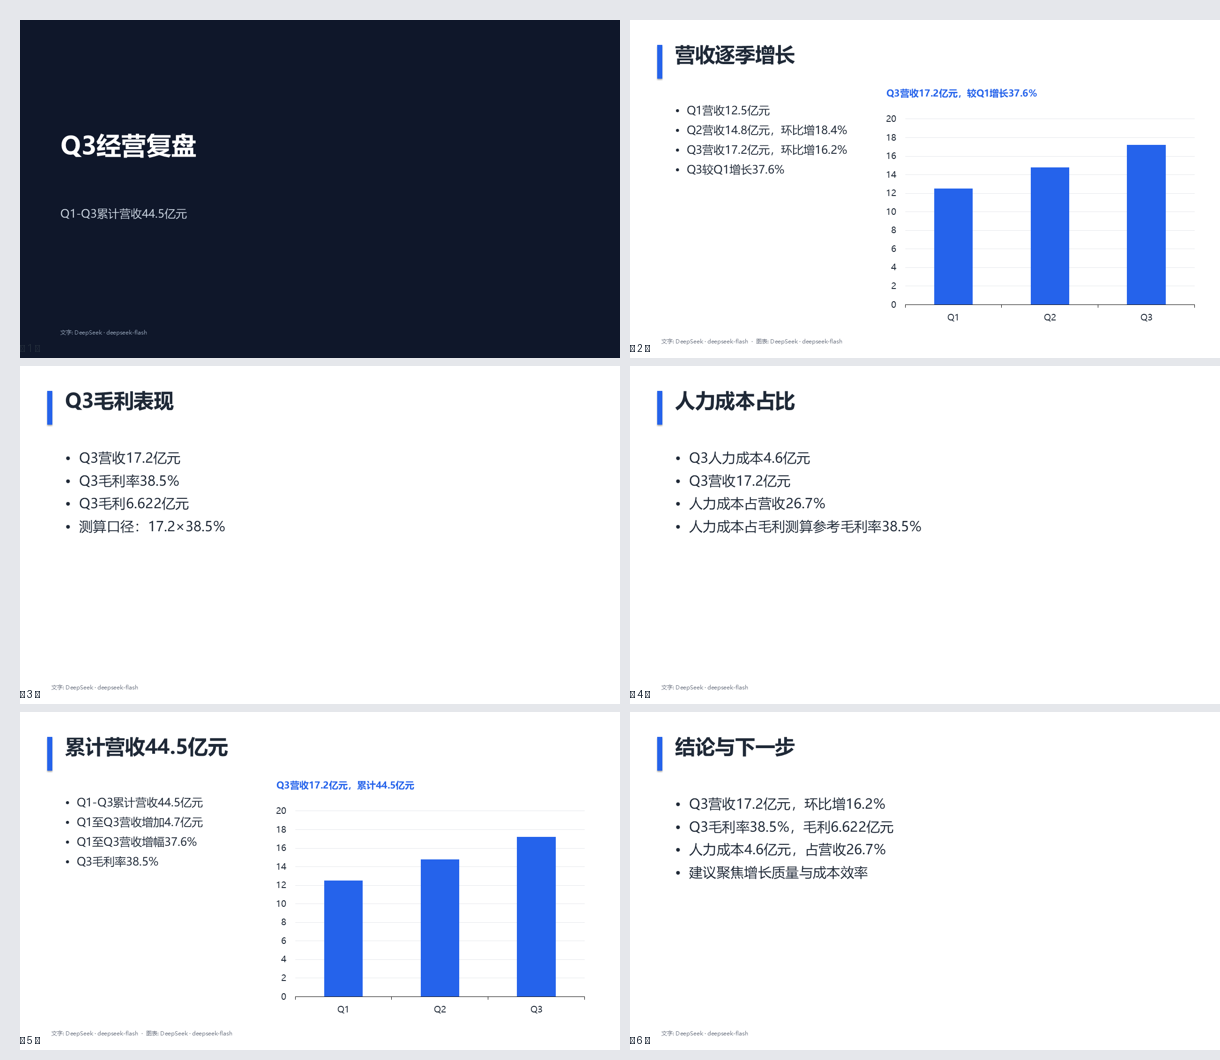
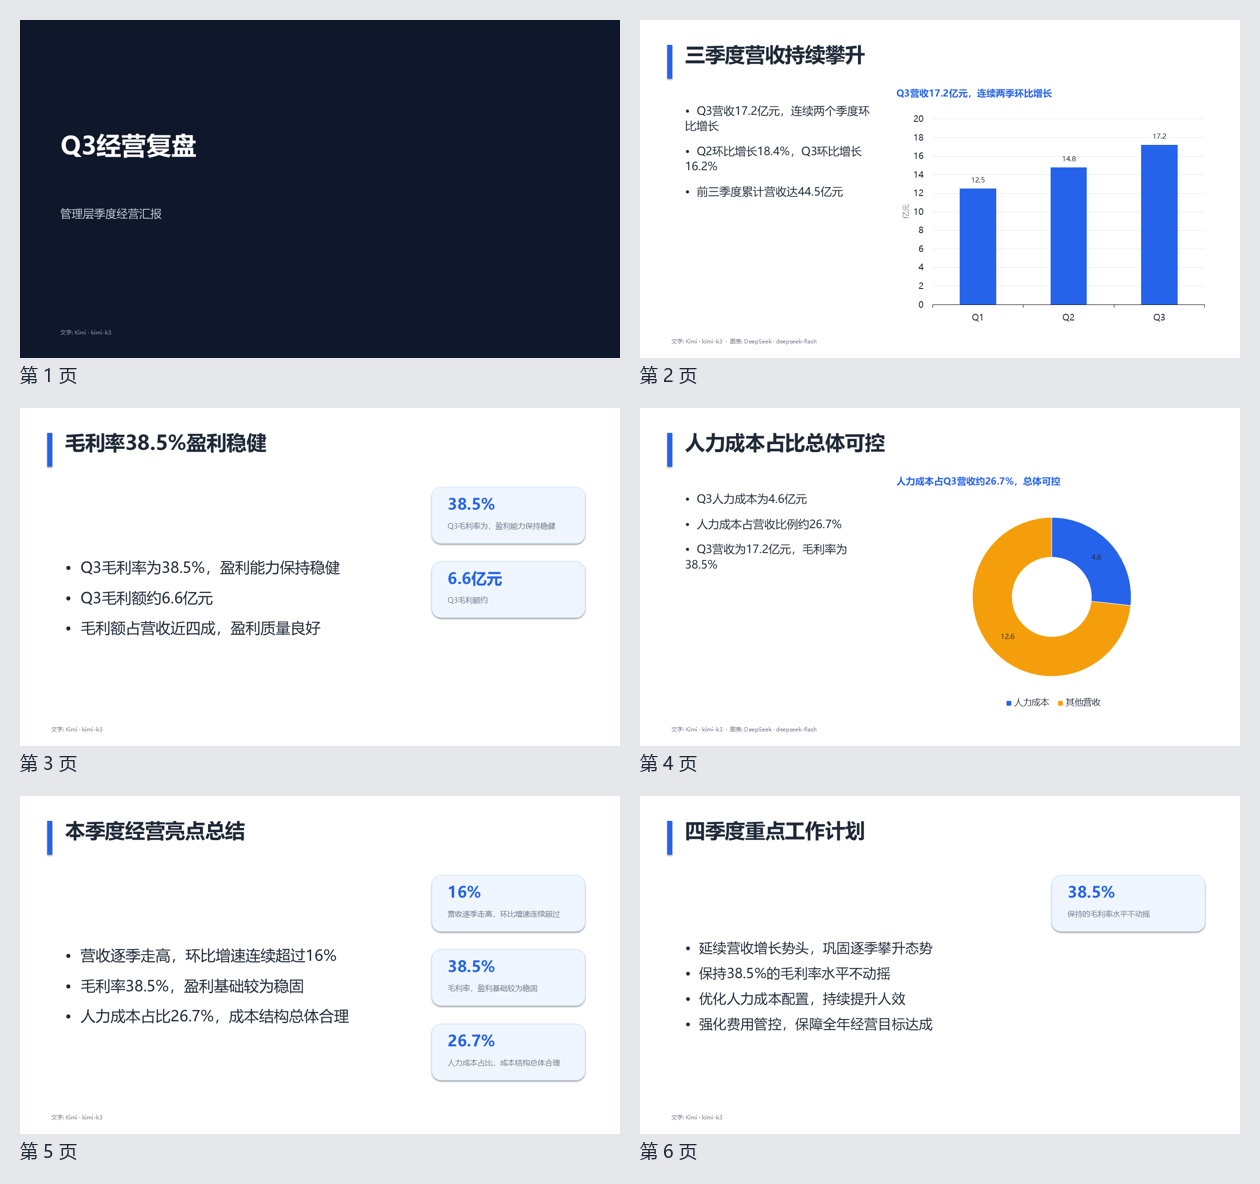
更新实测结果、改进数字核查分类、补充饱和度说明

diff --git a/scripts/make_screenshots.py b/scripts/make_screenshots.py
@@ -213,13 +213,13 @@ def _deck_wall(pptx: Path) -> Path:
             with Image.open(image_path).convert("RGB") as image:
                 image.thumbnail((600, 338))
                 thumbnails.append(image.copy())
-        canvas = Image.new("RGB", (1220, 1060), "#E5E7EB")
+        canvas = Image.new("RGB", (1260, 1184), "#E5E7EB")
         draw = ImageDraw.Draw(canvas)
         for index, image in enumerate(thumbnails):
-            x = 20 + (index % 2) * 610
-            y = 20 + (index // 2) * 346
+            x = 20 + (index % 2) * 620
+            y = 20 + (index // 2) * 388
             canvas.paste(image, (x, y))
-            draw.text((x, y + 322), f"第 {index + 1} 页", fill="#1F2937", font=label_font)
+            draw.text((x, y + 342), f"第 {index + 1} 页", fill="#1F2937", font=label_font)
         output = DOCS / "screenshot-deck.png"
         canvas.save(output, "PNG")
     _check_image(output)
@@ -228,7 +228,7 @@ def _deck_wall(pptx: Path) -> Path:
 
 
 def _visual_judge(record: dict) -> Path:
-    from slidearena import cases, render
+    from slidearena import cases, llm, render
     layout_records = [r for r in record["records"] if r.get("kind") == "layout" and r.get("answer")]
     by_task: dict[str, list[dict]] = {}
     for item in layout_records:
@@ -243,9 +243,9 @@ def _visual_judge(record: dict) -> Path:
     cell_w, cell_h = 420, 236
     canvas = Image.new("RGB", (cell_w * 3, cell_h + 76), "#FFFFFF")
     draw = ImageDraw.Draw(canvas)
-    font = render._font(18)
+    font = render.chinese_font(18, required=True)
     for index, item in enumerate(selected):
-        data = json.loads(item["answer"])
+        data = llm.extract_json(item["answer"])
         image = Image.open(io.BytesIO(render.render_layout(data, case, scale=0.44))).convert("RGB")
         canvas.paste(image.resize((cell_w, cell_h)), (index * cell_w, 0))
         image.close()
@@ -266,9 +266,6 @@ def main() -> int:
         print(f"找不到 {benchmark_path}，无法生成真实结果截图。")
         return 1
     pptx_files = sorted(output_dir.glob("*.pptx"), key=lambda path: path.stat().st_mtime)
-    if not pptx_files:
-        print(f"{output_dir} 下没有 PPTX，无法生成真实结果截图。")
-        return 1
     history = json.loads(benchmark_path.read_text(encoding="utf-8"))
     if not isinstance(history, list) or not history:
         print("benchmarks.json 没有可用记录。")
@@ -281,10 +278,17 @@ def main() -> int:
     safe_profiles = _safe_copy(profiles)
     _assert_public_json(safe_profiles)
     DOCS.mkdir(exist_ok=True)
-    _leaderboard(record, safe_profiles)
-    _deck_wall(pptx_files[-1])
-    _visual_judge(record)
-    print("已生成 docs/screenshot-leaderboard.png、docs/screenshot-deck.png、docs/visual-judge.png")
+    _leaderboard(safe_record, safe_profiles)
+    _visual_judge(safe_record)
+    deck_image = DOCS / "screenshot-deck.png"
+    if pptx_files and (not deck_image.exists() or pptx_files[-1].stat().st_mtime > deck_image.stat().st_mtime):
+        _deck_wall(pptx_files[-1])
+    elif deck_image.exists():
+        print("没有比现有截图更新的 PPTX，保留 docs/screenshot-deck.png")
+    else:
+        print("没有 PPTX 或现有 PPT 截图，排行榜和视觉评审图已更新")
+        return 1
+    print("已更新排行榜和视觉评审截图；PPT 截图仅在有更新文件时生成")
     return 0
 
 

diff --git a/slidearena/facts.py b/slidearena/facts.py
@@ -7,8 +7,9 @@ A number counts as *supported* when it
      percentage-point change.
 Rounding is respected: "41%" matches 41.28..., while "41.3%" must be within 0.05.
 
-Derivations only pair figures listed close together (a time series or a breakdown is written
-consecutively). That keeps random coincidences rare; see tests for measured false-pass rates.
+Verified derivations pair nearby figures or figures with the same explicit unit. Ratios of
+arbitrary numeric derivations are only "unverifiable": they avoid false penalties without
+claiming that distant numbers belong together. See tests for measured false-pass rates.
 It is a heuristic: it can miss some invented numbers, but does not flag correctly derived ones.
 """
 from __future__ import annotations
@@ -143,8 +144,9 @@ class Source:
     def classify(self, x: Qty) -> str:
         """trivial / supported / unverifiable / unsupported.
 
-        "unverifiable": the number matches only a *derived* value and is written so coarsely
-        (e.g. "41%") that a made-up number would match by chance too often to call it supported.
+        "unverifiable": a derived value has coarse precision, needs multiple steps, or is a
+        percentage from potentially unrelated numeric values. A coincidental match does not
+        prove that such a value is supported.
         """
         if is_trivial(x):
             return "trivial"
@@ -157,6 +159,16 @@ class Source:
                 return "supported"
             if _near(self._pool[x.family], v, tol):
                 return "unverifiable" if coarse else "supported"
+        if x.family == "pct":
+            nums = self._pool["num"]
+            for i, hi in enumerate(nums):
+                if hi <= 0:
+                    continue
+                # Search every smaller value, regardless of its position in the material.
+                # The sorted pool avoids enumerating all pairs for each output percentage.
+                j = bisect.bisect_left(nums, (x.norm - x.tol) * hi / 100, 0, i)
+                if j < i and nums[j] / hi * 100 <= x.norm + x.tol:
+                    return "unverifiable"
         for k in scales:
             if _near(self._pool2[x.family], x.norm * k, x.tol * k):
                 return "unverifiable"

diff --git a/tests/test_scoring.py b/tests/test_scoring.py
@@ -41,9 +41,20 @@ SRC = F.Source(C.OUTLINE[0]["material"])
 for t in ["Q2环比增长18.4%", "前三季度累计44.5亿元", "华东占Q3营收41.3%", "毛利率下降2.7个百分点",
           "同比增长31.3%", "71,000万元", "灵犀占Q3营收19.8%", "Q3比Q1多4.7亿"]:
     check(not SRC.unsupported(t), f"正确推算不误报：{t}")
-for t in ["人力成本5.3亿元", "净利润率12.7%", "员工规模1,580人"]:
+for t in ["人力成本5.3亿元", "净利润率12.734567%", "员工规模1,580人"]:
     check(bool(SRC.unsupported(t)), f"编造数字被发现：{t}")
 check(SRC.classify(F.q("41%")) in ("supported", "unverifiable"), "粗精度数字不会被误判为编造")
+far_case = next(c for c in C.OUTLINE if c["id"] == "outline-hard-reconciliation")
+far_source = F.Source(far_case["material"])
+check(far_source.classify(F.q("7.1%")) == "unverifiable" and
+      not far_source.unsupported("研发投入占营收约7.1%"),
+      "相距较远且单位不同的6800万/9.6亿比例标为无法严格核实，不误扣分")
+check(S.faithfulness("研发投入占营收约7.1%", far_case["material"], 30, 12)[0] == 30,
+      "合理的远距离百分比推算保留数字可信满分")
+check(SRC.classify(F.q("12.7%")) in ("unsupported", "unverifiable"),
+      "随机编造的比例不能被标为已核实 supported")
+check(far_source.classify(F.q("54万元")) == "unsupported",
+      "百分比放宽不适用于编造的绝对金额")
 rng = random.Random(3)
 fake = [f"{rng.randint(10, 999) / 10}%" for _ in range(2000)]
 rate = sum(1 for x in fake if SRC.classify(F.q(x)) == "supported") / len(fake)

diff --git a/slidearena/scoring.py b/slidearena/scoring.py
@@ -92,7 +92,7 @@ def score_outline(data, case) -> tuple[float, dict, list[str]]:
         if bad:
             notes.append("资料里没有依据的数字：" + "、".join(bad[:6]))
         if rep["unverifiable"]:
-            notes.append(f"{len(rep['unverifiable'])} 个数字精度太粗无法核实（不扣分）")
+            notes.append(f"{len(rep['unverifiable'])} 个数字因精度较粗或推算关系无法严格核实（不扣分）")
     else:
         faith = 30.0
     traps = known_traps(text, case)

diff --git a/slidearena/cli.py b/slidearena/cli.py
@@ -84,6 +84,7 @@ def print_board(r: dict) -> None:
     case_stats = r.get("case_stats", [])
     if case_stats:
         print(f"共 {r.get('question_count', len(case_stats))} 道题，其中 {sum(1 for c in case_stats if c.get('saturated'))} 道饱和。")
+        print("注：数据图表类题目对顶级模型区分度有限，三个模型均满分时排版和大纲的两两评审承担主要区分功能。")
 
 
 def cmd_bench(a):

diff --git a/README.md b/README.md
@@ -38,11 +38,11 @@ slidearena make "给管理层做 Q3 经营复盘：营收 Q1 12.5 亿、Q2 14.8 
 
 | 模型 | 文字 | 排版 | 数据图表 | 速度 | 中位耗时 | token/次 | 失败数 |
 |---|---|---|---|---|---|---|---|
-| DeepSeek · deepseek-flash | 96.7 (落后) | 100.0 (第一) | 100.0 (第一) | 56.9 (第一) | 10.91s | 1663 | 0 |
-| GPT · gpt-6.1-sol | 94.5 (落后) | 85.0 (落后) | 100.0 (并列) | 48.0 (落后) | 14.26s | 4882 | 0 |
-| Kimi · kimi-k3 | 100.0 (第一) | 100.0 (并列) | 100.0 (并列) | 35.7 (落后) | 20.6s | 1800 | 0 |
+| DeepSeek · deepseek-flash | 97.2 (第一) | 100.0 (第一) | 100.0 (第一) | 59.2 (第一) | 10.18s | 2190 | 0 |
+| GPT · gpt-6.1-sol | 93.7 (并列) | 84.9 (落后) | 100.0 (并列) | 37.1 (落后) | 19.74s | 5057 | 0 |
+| Kimi · kimi-k3 | 95.8 (并列) | 100.0 (并列) | 100.0 (并列) | 20.4 (落后) | 32.55s | 1946 | 0 |
 
-测试日期：2026-11-15 17:35:06；题库题数：23；每题重复次数：1；大纲评审：开启（12 组）；排版视觉评审：开启（18 组）。结果只代表这套题库在这一天的表现。
+测试日期：2026-11-16 11:07:53；题库版本：2026.11-b；题库题数：28（难题 6 道）；每题重复次数：1；大纲评审：开启（17 组）；排版视觉评审：开启（21 组）。结果只代表这套题库在这一天的表现。
 <!-- END SAMPLE_RESULTS_ZH -->
 
 ## 界面截图
@@ -108,6 +108,8 @@ slidearena bench --no-visual        # 跳过截图评审
 - 模型每次输出都不一样，可以用 `-r 3` 让每道题跑 3 次取平均。
 - 每项分数都附带 90% 置信区间，用题目层面的 bootstrap 重抽样算出。
 - 和第一名的分差在统计误差范围内时，排行榜标为"并列"，不硬分高低。
+
+数据图表题主要用来筛选图表能力不足的模型，对顶级模型的区分度有限。当这些题所有模型都能拿满分时，模型之间的主要差异来自大纲两两评审和排版视觉评审。
 
 ### 智能分工
 

diff --git a/README.en.md b/README.en.md
@@ -38,11 +38,11 @@ slidearena make "Create a Q3 business review for leadership: revenue was 1.25B i
 
 | Model | Text | Layout | Charts | Speed | Median latency | Tokens/call | Failures |
 |---|---|---|---|---|---|---|---|
-| DeepSeek · deepseek-flash | 96.7 (behind) | 100.0 (leader) | 100.0 (leader) | 56.9 (leader) | 10.91s | 1663 | 0 |
-| GPT · gpt-6.1-sol | 94.5 (behind) | 85.0 (behind) | 100.0 (tied) | 48.0 (behind) | 14.26s | 4882 | 0 |
-| Kimi · kimi-k3 | 100.0 (leader) | 100.0 (tied) | 100.0 (tied) | 35.7 (behind) | 20.6s | 1800 | 0 |
+| DeepSeek · deepseek-flash | 97.2 (leader) | 100.0 (leader) | 100.0 (leader) | 59.2 (leader) | 10.18s | 2190 | 0 |
+| GPT · gpt-6.1-sol | 93.7 (tied) | 84.9 (behind) | 100.0 (tied) | 37.1 (behind) | 19.74s | 5057 | 0 |
+| Kimi · kimi-k3 | 95.8 (tied) | 100.0 (tied) | 100.0 (tied) | 20.4 (behind) | 32.55s | 1946 | 0 |
 
-Test date: 2026-11-15 17:35:06; task bank: 23; repeats per task: 1; outline review enabled (12 groups); visual layout review enabled (18 groups). Results represent this task bank on this day only.
+Test date: 2026-11-16 11:07:53; task bank: 2026.11-b (28 tasks, 6 hard); repeats per task: 1; outline review enabled (17 groups); visual layout review enabled (21 groups). Results represent this task bank on this day only.
 <!-- END SAMPLE_RESULTS_EN -->
 
 ## Screenshots
@@ -106,6 +106,8 @@ On HTTP 429 responses, SlideArena reads the provider's RPM and concurrency limit
 - Use `-r 3` to repeat tasks and average each task's results.
 - Every score includes a 90% confidence interval computed by bootstrap resampling across cases.
 - Scores within the statistical margin of the leader are marked tied.
+
+Chart tasks mainly screen out models with weaker chart skills and offer limited separation among top models. When every model scores perfectly on these tasks, outline pairwise reviews and visual layout reviews provide most of the distinction.
 
 ### Model Routing
 
